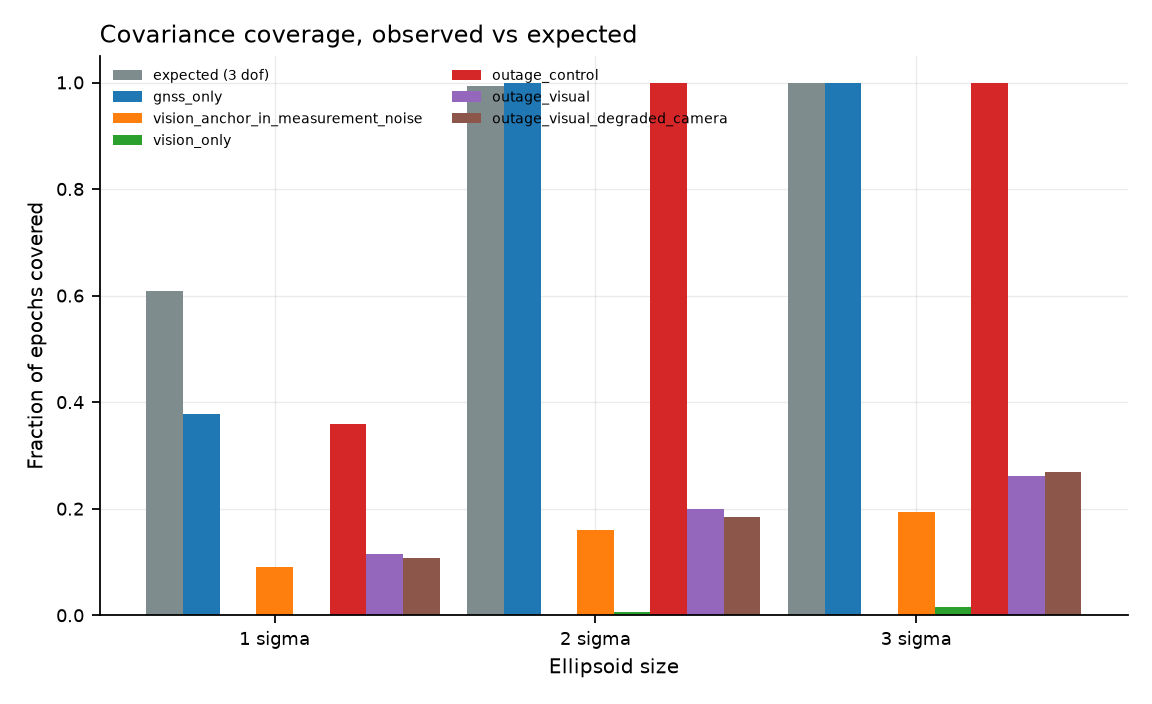
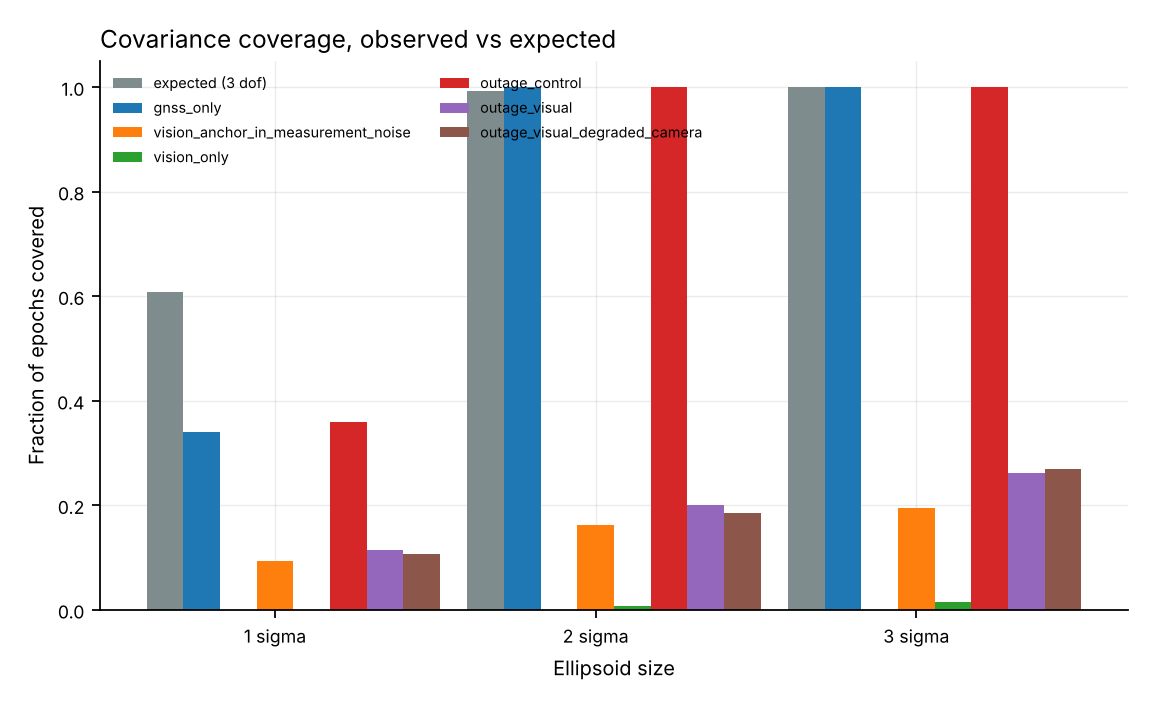
docs: update the published numbers and figures after the injection fix
README, results, getting-started and calibration quote the four cases that moved. The error-vs-claim,
coverage and NEES figures are regenerated; the hero and outage figures draw only the outage cases,
which did not move, so they are left as they were. The 10-seed and 8-scene sweeps were rerun: the
outage_visual numbers are unchanged, vision_only's seed range is now 231 to 2917, and all seven case
verdicts are still identical in all eight scenes.

Refs #56

Claude-Session: https://claude.ai/code/session_01GwfcPN95nG6qXCvWKXzrSW

diff --git a/docs/calibration.md b/docs/calibration.md
@@ -37,7 +37,7 @@ reference does not grow with the size of the state vector.
 
 The number to be suspicious of is the gap, not the value. The generated
 `outage_visual` case reports a mean NEES of 419.4 against a nominal 3, and
-`vision_only` reports 331.0. Two orders of magnitude, against a nominal 3, is
+`vision_only` reports 358.5. Two orders of magnitude, against a nominal 3, is
 not a filter that is slightly miscalibrated.
 
 Those figures fell from 1996.5 when ADR-0006 stopped the filter discarding the
@@ -49,7 +49,7 @@ repaired. Read NEES and the coverage column together with ATE — see the note i
 
 A 10-seed sweep changes the reading of the digits, not the verdict. `outage_visual`
 gives mean NEES 844 across noise realisations (range 211.7 to 2103.4) and
-`vision_only` 331 to 2660, so 419.4 and 331.0 are individual draws. The
+`vision_only` 231 to 2917, so 419.4 and 358.5 are individual draws. The
 conclusion is unaffected: the minimum over 10 seeds is still 211.7 against a
 nominal 3, and coverage never exceeds 34.8% where 99.3% is required. Two orders
 of magnitude is the right order to write down, but not two orders of magnitude
@@ -100,20 +100,20 @@ mode as the original bug, one level up.
 ## Worked example: reading the defect
 
 From the generated benchmark (`python scripts/run_benchmark.py`, GNSS available
-throughout, 20 s):
+throughout, 30 s):
 
 | Configuration | ATE RMSE | 1-sigma claimed | Mean NEES | Coverage at 2 sigma |
 |---|---:|---:|---:|---:|
-| GNSS only (control) | 0.503 m | 0.252 m | 3.7 | 100.0% |
-| GNSS + vision, anchor as measurement noise (defect) | 1.259 m | 0.091 m | 354.6 | 16.0% |
-| Vision only, anchor as filter state | 2.309 m | 0.156 m | 331.0 | 0.7% |
+| GNSS only (control) | 0.509 m | 0.252 m | 4.0 | 100.0% |
+| GNSS + vision, anchor as measurement noise (defect) | 1.310 m | 0.091 m | 405.0 | 16.2% |
+| Vision only, anchor as filter state | 2.357 m | 0.156 m | 358.5 | 0.7% |
 
 Row 1 is the reference: error and claimed uncertainty are the same order, and
 coverage is complete.
 
 Row 2 is the defect. Note the combination: the claimed 1-sigma is an order of
-magnitude below the error it is attached to, the mean NEES is 355 against a
-nominal 3, and coverage is 16.0% where 99.3% is expected. Any one of these would
+magnitude below the error it is attached to, the mean NEES is 405 against a
+nominal 3, and coverage is 16.2% where 99.3% is expected. Any one of these would
 warrant investigation. Together they say the filter is confidently wrong, and
 the *direction* of the error matters -- it is overconfident, not merely
 inaccurate.

diff --git a/docs/results.md b/docs/results.md
@@ -7,10 +7,10 @@ the strictest of the four conventions the code supports.
 
 | Scenario | ATE RMSE (m) | Claimed 1σ (m) | Mean NEES (exp. 3) | Coverage @ 2σ | Verdict |
 | --- | ---: | ---: | ---: | ---: | --- |
-| GNSS only (control) | 0.503 | 0.252 | 3.7 | 100.0% | mixed: bulk overconfident, tail underconfident |
-| Dead reckoning (no aiding) | 1.877 | n/a | n/a | n/a | no covariance reported |
-| Anchor as measurement noise (defect) | 1.307 | 0.091 | 387.3 | 16.0% | overconfident |
-| Vision only | 2.309 | 0.156 | 331.0 | 0.7% | overconfident |
+| GNSS only (control) | 0.509 | 0.252 | 4.0 | 100.0% | mixed: bulk overconfident, tail underconfident |
+| Dead reckoning (no aiding) | 2.248 | n/a | n/a | n/a | no covariance reported |
+| Anchor as measurement noise (defect) | 1.310 | 0.091 | 405.0 | 16.2% | overconfident |
+| Vision only | 2.357 | 0.156 | 358.5 | 0.7% | overconfident |
 | GNSS denied 5–20 s, vision off (control) | 3.782 | 0.567 | 4.1 | 100.0% | mixed: bulk overconfident, tail underconfident |
 | GNSS denied 5–20 s, vision on | 2.541 | 0.161 | 419.4 | 20.0% | overconfident |
 | GNSS denied, 30% camera frames dropped | 1.872 | 0.190 | 216.6 | 18.5% | overconfident |
@@ -46,7 +46,7 @@ overconfident almost everywhere while never once producing a tail escape;
 collapsing that into a single "calibrated" boolean discards half the evidence
 and hides the shape of the error distribution.
 
-The `mixed` rows are exactly that case: mean NEES of 3.7 against an expected 3
+The `mixed` rows are exactly that case: mean NEES of 4.0 against an expected 3
 is a real, statistically detectable overconfidence, and yet no epoch escapes
 2σ. Both statements are true and only one of them is usually quoted.
 

diff --git a/README.md b/README.md
@@ -48,10 +48,10 @@ filter starts in the reference frame, so there is no offset for a fitted transfo
 
 | Scenario | ATE RMSE (m) | Claimed 1σ (m) | Mean NEES (exp. 3) | Coverage @ 2σ | Verdict |
 | --- | ---: | ---: | ---: | ---: | --- |
-| GNSS only (control) | 0.503 | 0.252 | 3.7 | 100.0% | mixed: bulk overconfident, tail underconfident |
-| Dead reckoning (no aiding) | 1.877 | n/a | n/a | n/a | no covariance reported |
-| Anchor as measurement noise (defect) | 1.307 | 0.091 | 387.3 | 16.0% | overconfident |
-| Vision only | 2.309 | 0.156 | 331.0 | 0.7% | overconfident |
+| GNSS only (control) | 0.509 | 0.252 | 4.0 | 100.0% | mixed: bulk overconfident, tail underconfident |
+| Dead reckoning (no aiding) | 2.248 | n/a | n/a | n/a | no covariance reported |
+| Anchor as measurement noise (defect) | 1.310 | 0.091 | 405.0 | 16.2% | overconfident |
+| Vision only | 2.357 | 0.156 | 358.5 | 0.7% | overconfident |
 | GNSS denied 5–20 s, vision off (control) | 3.782 | 0.567 | 4.1 | 100.0% | mixed: bulk overconfident, tail underconfident |
 | GNSS denied 5–20 s, vision on | 2.541 | 0.161 | 419.4 | 20.0% | overconfident |
 | GNSS denied, 30% camera frames dropped | 1.872 | 0.190 | 216.6 | 18.5% | overconfident |

diff --git a/docs/getting-started.md b/docs/getting-started.md
@@ -15,7 +15,7 @@ The last command prints the three rows that carry the headline result:
 ```text
 | Scenario | ATE RMSE (m) | Claimed 1-sigma (m) | Mean NEES (exp. 3) | Coverage at 2 sigma | Verdict |
 | --- | ---: | ---: | ---: | ---: | --- |
-| gnss_only | 0.503 | 0.252 | 3.7 | 100.0% | mixed(bulk=overconfident, tail=underconfident) |
+| gnss_only | 0.509 | 0.252 | 4.0 | 100.0% | mixed(bulk=overconfident, tail=underconfident) |
 | outage_control | 3.782 | 0.567 | 4.1 | 100.0% | mixed(bulk=overconfident, tail=underconfident) |
 | outage_visual | 2.541 | 0.161 | 419.4 | 20.0% | overconfident |
 ```
